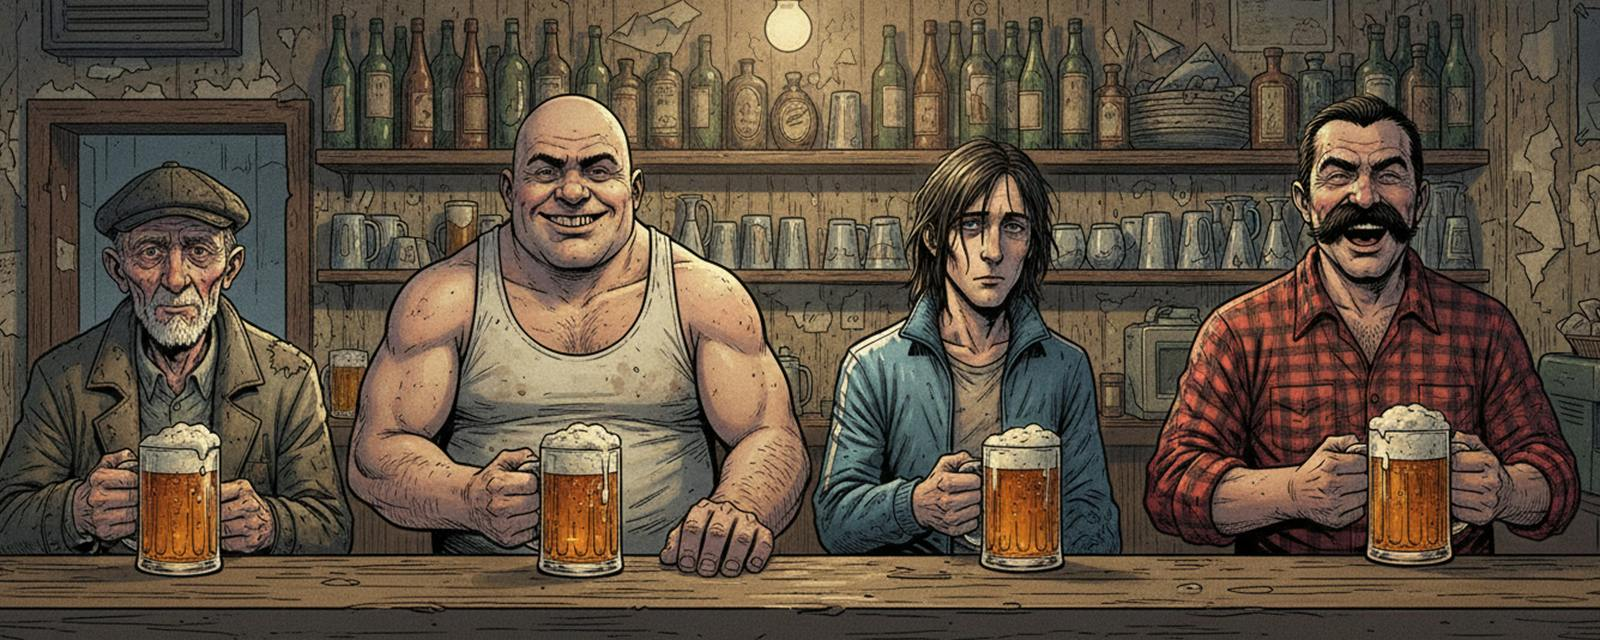
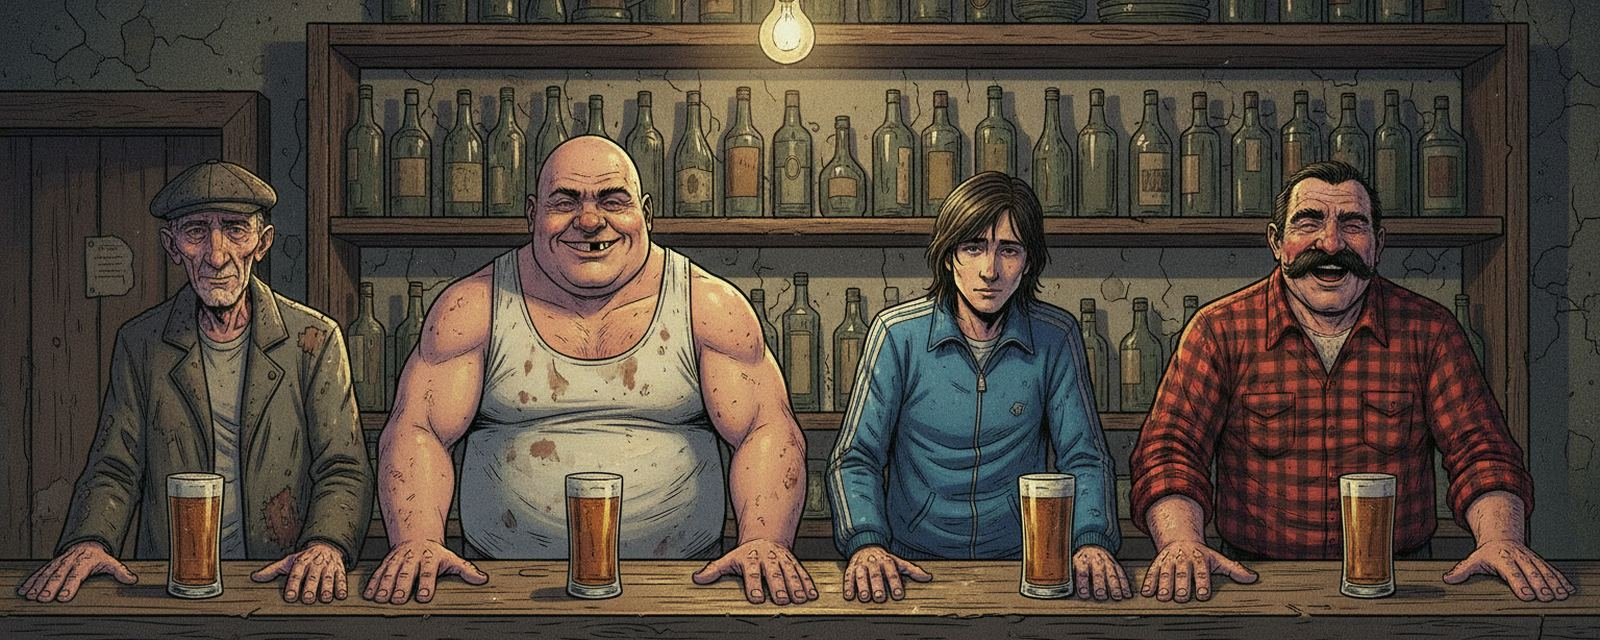
Pás kapitoly Zhromaždenie nanovo, pravidlo fyzikálne správnych predmetov
Starý pás mal krígeľ s dvoma uchami. Nový: štyria rôzni chlapi pri pulte,
poháre bez uší stoja na pulte, ruky položené, bez dymu (Leonardo, 1 kolo).
styl.md a STYL v styl.ts: krígeľ jedno ucho, pohár žiadne, fľaša jedno
hrdlo, ruka päť prstov (Michal 2026-10-24).

diff --git a/tools/admin/styl.ts b/tools/admin/styl.ts
@@ -17,7 +17,10 @@ export const STYL =
   // Pevné pravidlo Michala 2026-10-24 pre každý obrázok (styl.md): ľuďom sa dymilo z chrbta a z uší.
   "Smoke may come ONLY from a lit cigarette, from a cigarette resting in an ashtray, or from the mouth of a person exhaling it — " +
   "never from ears, backs, hair, clothes or out of thin air. " +
-  "Hands in simple natural poses, anatomically correct with five fingers; no tangled or interlocked hands.";
+  "Hands in simple natural poses, anatomically correct with five fingers; no tangled or interlocked hands. " +
+  // Pevné pravidlo Michala 2026-10-24 (styl.md): krígeľ s dvoma uchami v páse kapitoly Zhromaždenie.
+  "Every object must be physically correct: a beer mug has exactly one handle, a drinking glass or shot glass has no handle, " +
+  "a bottle has exactly one neck, a hand has exactly five fingers, a chair has its legs on the floor.";
 
 /** Pás nad kapitolou pravidiel (Michal 2026-10-24): ten istý štýl, široká scéna; orezá sa na 2,5 : 1. */
 export const STYL_PASU = STYL.replace(

diff --git a/tools/admin/styl.md b/tools/admin/styl.md
@@ -40,6 +40,12 @@ vyčnievala.
   smoking, no smoke anywhere“.
 - **Ruky** v jednoduchých prirodzených polohách, päť prstov. Žiadne pretláčanie,
   prepletené ruky ani zložité úchopy — model ich kreslí zle.
+- **Predmety fyzikálne správne — pevné pravidlo** (Michal 2026-10-24, platí
+  pre každý obrázok): krígeľ má **jedno** ucho, pohár a poldecák **žiadne**,
+  fľaša **jedno** hrdlo, ruka **päť** prstov, stolička stojí nohami na zemi.
+  Model rád kreslí krígle s dvoma uchami, keď ich postava drží oboma rukami —
+  radšej nech poháre stoja na pulte či stole pred postavou, nikto ich nedrží.
+  Krígeľ s dvoma uchami, fľaša s dvoma hrdlami či šesť prstov = zlý obrázok.
 
 ## Šablóna promptu
 
@@ -108,7 +114,10 @@ Pred použitím si každý návrh pozri (Read na súbor) a over:
    pozri pri plnej veľkosti (pri pochybnosti zväčšený výrez).
 4. **Dym**: každý obláčik musí viesť k cigarete, popolníku alebo k ústam.
    Dym z chrbta, hlavy či zo vzduchu = zlý obrázok, generuj znova.
-5. Postava zodpovedá názvu a téme karty (Kliatba pôsobí ako trest, Starešina
+5. **Predmety**: spočítaj uchá kríglov (jedno), pohárov (žiadne), hrdlá fliaš
+   (jedno) a prsty (päť) — aj na poličkách v pozadí. Pri pochybnosti zväčšený
+   výrez.
+6. Postava zodpovedá názvu a téme karty (Kliatba pôsobí ako trest, Starešina
    ako autorita, Zviera ako dedinské zviera).
 
 Ak žiadny z návrhov nesedí, uprav námet (konkrétnejšie prostredie, výraz,
